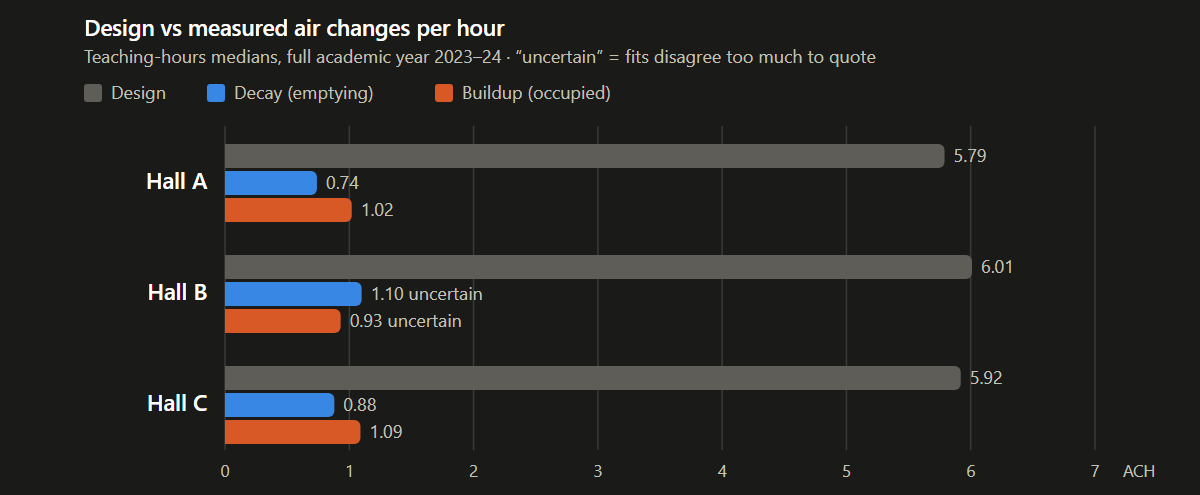
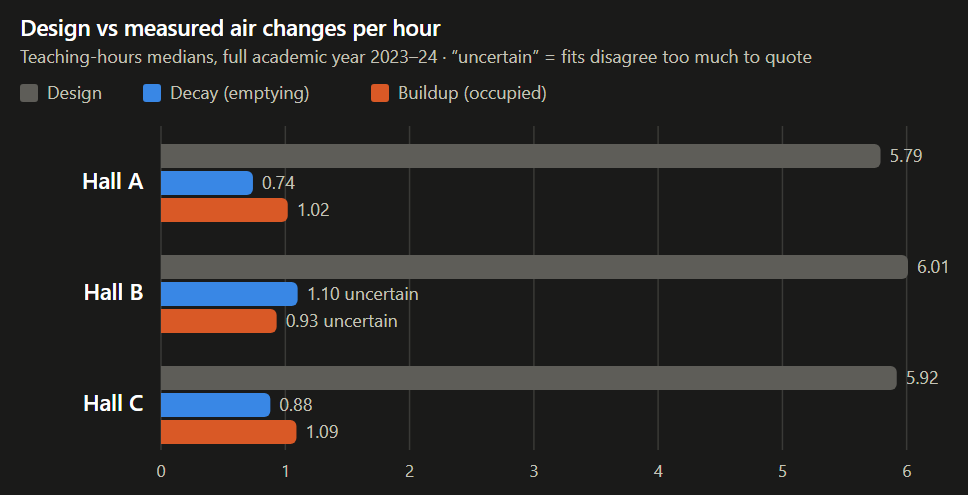
final commit after submission

diff --git a/docs/OUTREACH.md b/docs/OUTREACH.md
@@ -1,0 +1,90 @@
+# Outreach to dataset authors
+
+Three drafts, one per dataset team. Each body is under 200 words. Numbers are
+taken from `README.md`, `docs/WRITEUP.md` and `analysis/METHOD.md`. If the
+audit is re-run before sending, re-check every figure against `audit.json`.
+
+**Any reply, even a short one, goes into the write-up's Impact section
+(`docs/WRITEUP.md`) before the deadline, 2 Oct 2026, 23:59 PT.** Quote it with
+permission, or paraphrase it, and give the date.
+
+## Contact details
+
+None of the three Zenodo records publishes an email address (checked through
+the Zenodo API on 30 Sep 2026: creators, contributors, description and notes).
+
+| Dataset | What the record gives | Where to look |
+| --- | --- | --- |
+| 18385830, lecture halls, Cyprus | Christina Kakoulli is named **ContactPerson**. ORCIDs: Kakoulli 0000-0001-8436-0131, Michaelides 0000-0002-0549-704X, Kyriacou 0000-0003-4815-2989. No affiliations listed. | The three ORCID profiles, for affiliation and email. Then the institution's staff directory. Write to Kakoulli first, since she is the named contact. |
+| 5062837, Spain | Sergio Trilles, Universitat Jaume I, ORCID 0000-0002-9304-0719. | The ORCID profile and the Universitat Jaume I staff directory. |
+| 18195710, ENSENSIA | Names only: John Apostolopoulos, George Fouskas, Spyros Pandis. No ORCIDs, no affiliations. The README has no contact section. Funded by the EU Horizon project SynAir-G, grant 101057271. | The CORDIS project page (https://cordis.europa.eu/projects/101057271) and the SynAir-G project site, for the partner that runs ENSENSIA and a contact address. |
+
+---
+
+## 1. Cyprus lecture halls (Zenodo 18385830)
+
+**To:** Christina Kakoulli, cc Michalis Michaelides and Alexis Kyriacou
+**Subject:** Your lecture-hall IEQ dataset (Zenodo 18385830): which clock does `recorded` use?
+
+Dear Christina Kakoulli, Michalis Michaelides and Alexis Kyriacou,
+
+Thank you for publishing the lecture-hall measurements under CC BY 4.0. Your characteristics file made a design comparison possible.
+
+I estimated each hall's air-change rate two ways: from the CO2 decay after the room empties, and from the rise during occupancy. Against a design of about 6 ACH, Hall A measures 0.74 by decay (252 fits) and 1.02 by buildup (27 fits). Hall C measures 0.88 (259) and 1.09 (8). Hall B's decay fits scatter too widely (interquartile range 0.47 to 1.70) to quote. Its peak was 4,957 ppm.
+
+My main question: which clock does the `recorded` column use? The timestamps run straight through both 2023–24 clock changes, so it looks like UTC or a fixed offset. If it is UTC, both of Hall C's fits become uncertain. Hall A holds either way, and every hall stays at or below 1.17 ACH.
+
+Also, are the halls' air-handler schedules available? They would show whether the decay fit measures leakage rather than supplied air.
+
+The analysis and code are open; I'm happy to send per-hall results: https://github.com/mohitk-patwari/secondbreath
+
+This began as an entry to the AWS Builder Center hackathon.
+
+Kind regards,
+Mohit Kumar Patwari
+
+---
+
+## 2. Castellón primary classrooms (Zenodo 5062837)
+
+**To:** Sergio Trilles
+**Subject:** Your classroom CO2 dataset (Zenodo 5062837): do room volumes exist?
+
+Dear Sergio Trilles,
+
+Thank you for publishing the Castellón classroom CO2 data under CC BY 4.0.
+
+I estimated air-change rates from the data two ways: from the CO2 decay after each class empties, and from the rise while the room is occupied. Of the 12 sensors, 8 give a confident decay rate, from 0.68 to 3.65 air changes per hour (median 2.32). None gives a confident buildup rate. The classrooms were measured in spring 2021 with Covid-19 ventilation measures in force, so I report these rates as measured, not as normal practice.
+
+What I could not do is compare them with anything. Do the classroom volumes, or floor areas and ceiling heights, exist anywhere? A design or recommended airflow per room would help too. Without volume, no rate can be checked against design or guidance, so I claim no shortfall for any of these rooms.
+
+The analysis and code are open, and I'm happy to send the per-classroom results: https://github.com/mohitk-patwari/secondbreath
+
+This began as an entry to the AWS Builder Center hackathon.
+
+Kind regards,
+Mohit Kumar Patwari
+
+---
+
+## 3. ENSENSIA schools (Zenodo 18195710)
+
+**To:** John Apostolopoulos, George Fouskas, Spyros Pandis
+**Subject:** ENSENSIA indoor air dataset (Zenodo 18195710): do room volumes exist?
+
+Dear John Apostolopoulos, George Fouskas and Spyros Pandis,
+
+Thank you for publishing the ENSENSIA raw data under CC BY 4.0, and for a README that states the time zone.
+
+I estimated air-change rates from the CO2 records two ways: from the decay after each room empties, and from the rise while it is occupied. Of the 25 school files, 14 give a confident decay rate, from 0.24 to 1.75 air changes per hour (median 1.40). 7 give a confident buildup rate, from 0.40 to 1.05 (median 0.72).
+
+One thing you may want to know: School 18 reports exactly 658 ppm for 46,826 consecutive readings while its temperature and humidity keep changing. It looks like a fill value. My filter for such runs fired in 8 of the 25 files.
+
+My question: do the monitored rooms' volumes, or floor areas and ceiling heights, exist anywhere? Without them no rate can be compared with design or guidance, so I claim no shortfall for any school.
+
+The analysis and code are open, and I'm happy to send the per-school results: https://github.com/mohitk-patwari/secondbreath
+
+This began as an entry to the AWS Builder Center hackathon.
+
+Kind regards,
+Mohit Kumar Patwari
